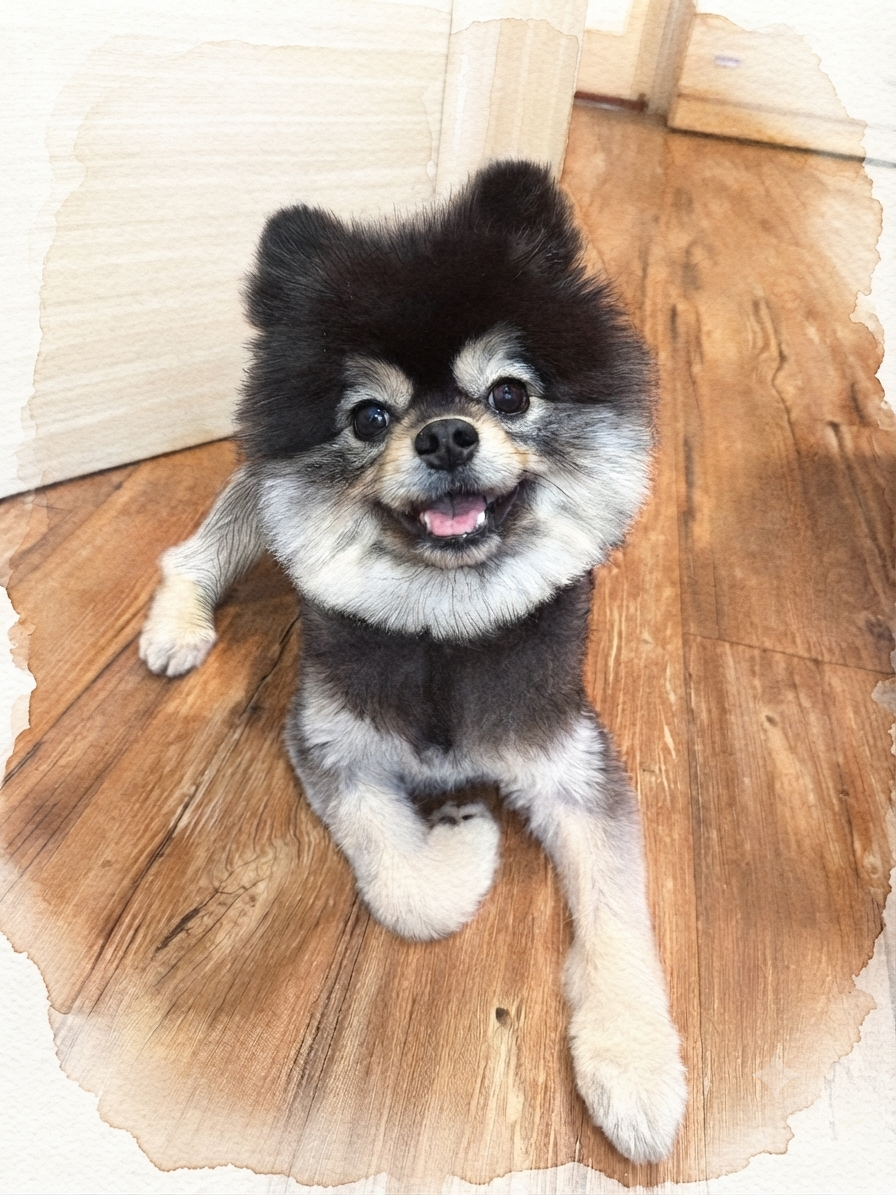
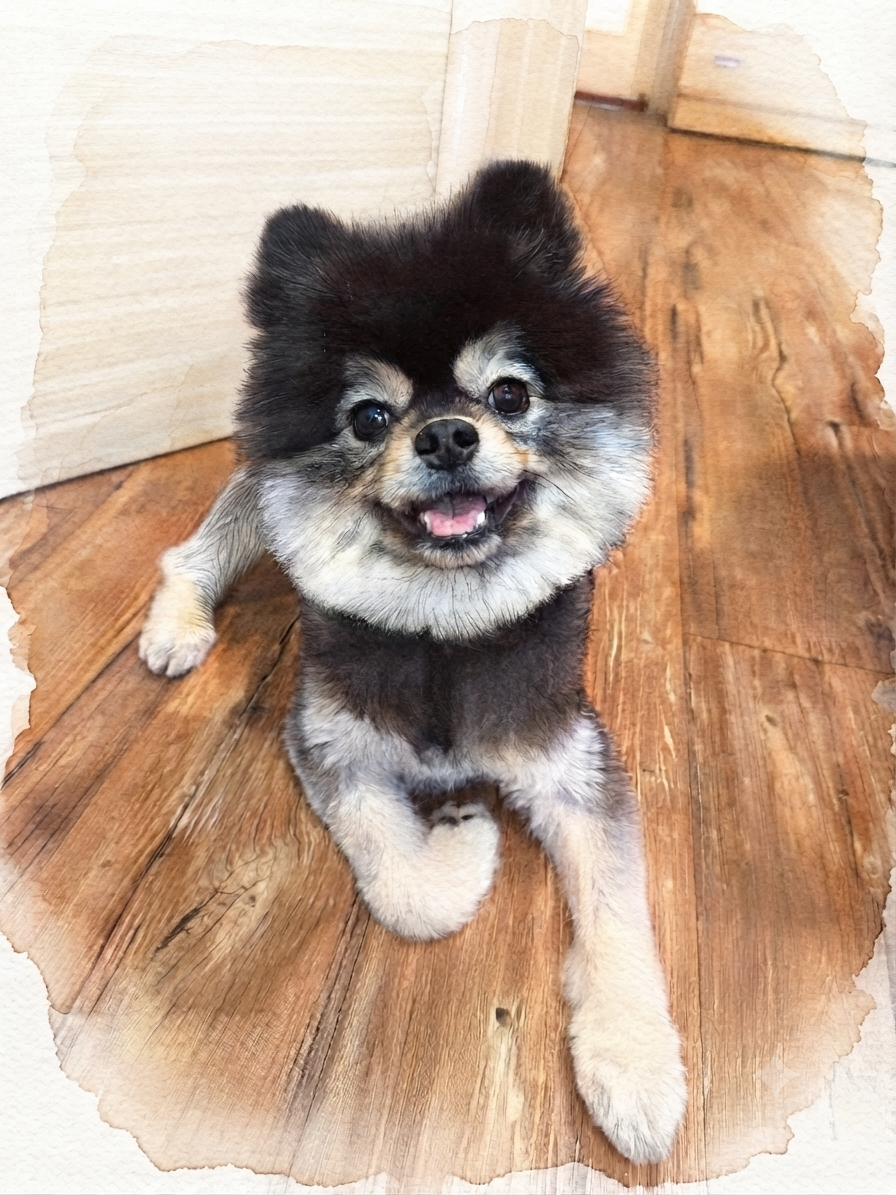
Add Wulong to Pet Zone and update Ruby's photo
Wulong joins the carousel with a custom object-position so his face
isn't cropped out of the square thumbnail.

Changed region(s): [[0.625, 0.1238, 0.6562, 0.1548]]

diff --git a/components/pets/PetSection.tsx b/components/pets/PetSection.tsx
@@ -11,6 +11,8 @@ interface PetProfile {
   role: string;
   description: string;
   imageSrc: string;
+  /** CSS object-position，預設 "50% 14%"，用於裁切照片時對齊臉部位置 */
+  imagePosition?: string;
 }
 
 const pets: PetProfile[] = [
@@ -55,6 +57,14 @@ const pets: PetProfile[] = [
     role: "撒嬌大隊長",
     description: "擁有最可愛的笑容，每天笑嘻嘻迎接每一天。",
     imageSrc: "/images/cats/ruby.png",
+  },
+  {
+    id: "wulong",
+    name: "烏龍",
+    role: "短腿衝刺隊長",
+    description: "有著標誌性的短腿，最愛的日常就是陪小孩玩耍。",
+    imageSrc: "/images/cats/wulong.png",
+    imagePosition: "50% 45%",
   },
 ];
 
@@ -168,7 +178,7 @@ export default function PetSection() {
                     fill
                     sizes="(min-width: 768px) 33vw, 100vw"
                     className="object-cover transition-transform duration-300 group-hover:scale-105"
-                    style={{ objectPosition: "50% 14%" }}
+                    style={{ objectPosition: pet.imagePosition ?? "50% 14%" }}
                   />
                 </div>
 
